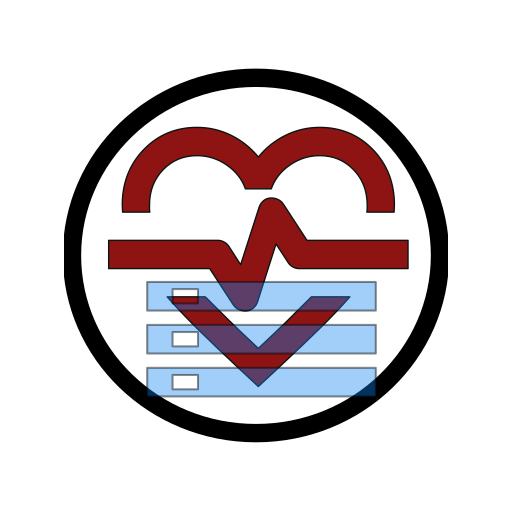
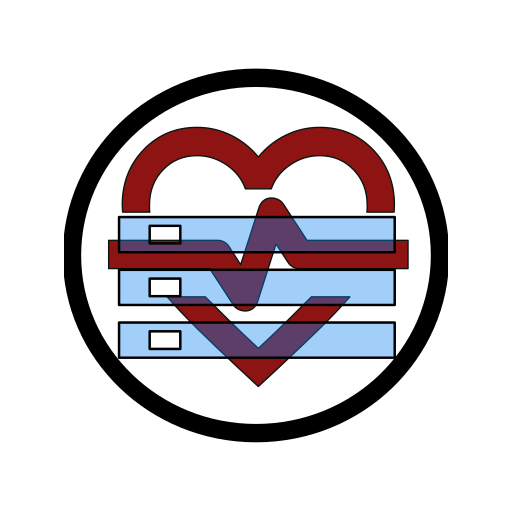
feat: actualizar logotipos cliente-servidor

Changed region(s): [[0.2188, 0.4062, 0.7812, 0.7812]]

diff --git a/public/sw.js b/public/sw.js
@@ -1,4 +1,4 @@
-const CACHE_NAME = 'control-tension-v1.6.0-beta.1-logo-2';
+const CACHE_NAME = 'control-tension-v1.6.0-beta.1-logo-3';
 const APP_SHELL = [
   './',
   './index.html',
